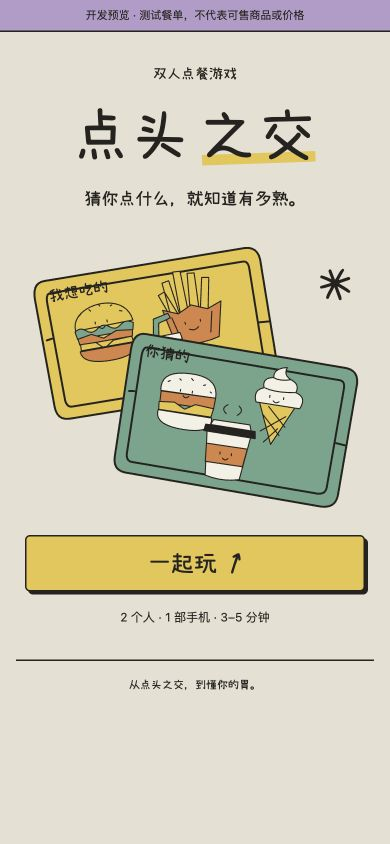
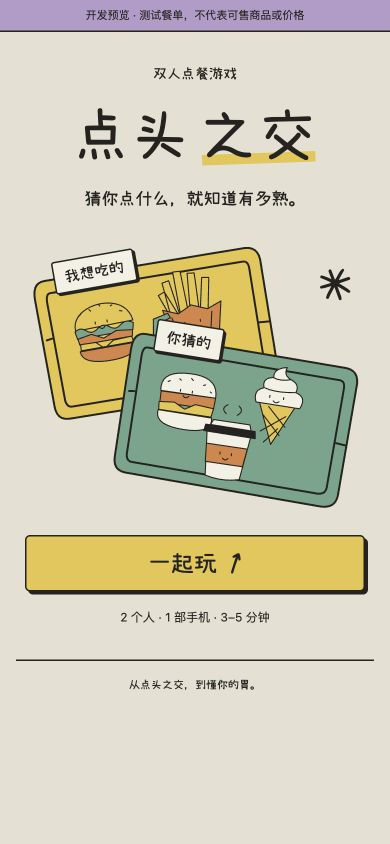
Give cover tray labels clear paper tabs on mobile and desktop

Changed region(s): [[0.1231, 0.2773, 0.3692, 0.3697], [0.3692, 0.3697, 0.5846, 0.4313]]

diff --git a/public/style.css b/public/style.css
@@ -15,7 +15,7 @@
 :root{color-scheme:light}.handoff .envelope{animation:seal-in 250ms ease both}.handoff .recipient{animation:receive-in 150ms ease both}@keyframes seal-in{from{opacity:0;transform:translateY(14px) rotate(-10deg) scale(.96)}to{opacity:1;transform:rotate(-5deg)}}@keyframes receive-in{from{opacity:0;transform:translateY(5px)}to{opacity:1;transform:none}}
 @media(min-width:650px){.welcome{display:grid;grid-template-columns:1fr 1fr;grid-template-areas:"eyebrow eyebrow" "title art" "copy art" "button art" "meta meta";text-align:left;column-gap:28px;padding-top:34px;align-items:center}.welcome .eyebrow{grid-area:eyebrow;justify-content:flex-start}.welcome h1{grid-area:title;font-size:clamp(43px,4.6vw,54px);align-self:end;margin-top:8px}.welcome .cover-stage{grid-area:art;width:100%;height:300px;margin:0}.welcome .cover-card{height:225px;bottom:28px}.welcome .cover-card svg{width:155px;height:155px}.welcome .cover-card span{font-size:21px}.welcome .cover-note{font-size:16px}.welcome .cover-star{font-size:38px}.welcome .welcome-copy{grid-area:copy;font-size:19px;margin:14px 0 22px}.welcome>.button{grid-area:button}.welcome-meta{grid-area:meta;text-align:center;padding-top:15px;margin-top:24px}}
 /* Free-choice food counter and tray. No request is sent while arranging food. */
-.tray-cover .cover-tray{position:absolute;width:74%;left:0;top:18px;transform:rotate(-10deg)}.tray-cover .cover-tray:nth-child(2){left:auto;right:-1%;top:106px;transform:rotate(9deg)}.cover-tray svg{display:block;width:100%}.cover-tray span{position:absolute;left:9%;top:11%;font:17px Xiaolai,sans-serif}.tray-cover .cover-note{top:0}.tray-cover .cover-star{left:auto;right:0;top:46px}.tray-cover .cover-question{left:4%;bottom:1px}.welcome .tray-cover{height:320px;max-width:440px}
+.tray-cover .cover-tray{position:absolute;width:74%;left:0;top:18px;transform:rotate(-10deg)}.tray-cover .cover-tray:nth-child(2){left:auto;right:-1%;top:106px;transform:rotate(9deg)}.cover-tray svg{display:block;width:100%}.cover-tray span{position:absolute;left:12%;top:-5%;font:16px/1.2 Xiaolai,sans-serif;white-space:nowrap;background:var(--white);border:1.5px solid var(--ink);border-radius:3px;padding:6px 10px;box-shadow:2px 2px 0 var(--ink)}.tray-cover .cover-note{top:0}.tray-cover .cover-star{left:auto;right:0;top:46px}.tray-cover .cover-question{left:4%;bottom:1px}.welcome .tray-cover{height:320px;max-width:440px}
 .tray-selection .screen-head{padding:24px 0 8px}.tray-selection .screen-head h1{margin:16px 0 6px}.tray-selection .store-caption{margin:0 0 16px;font-size:12px;gap:12px}.tray-selection .store-caption span:first-child{min-width:0;overflow-wrap:anywhere}.tray-selection .store-caption span:last-child{white-space:nowrap}.tray-builder{display:grid;gap:12px}.food-counter{min-width:0}.food-tabs{display:flex;gap:7px;border-bottom:var(--line);padding:0 7px;justify-content:space-around}.food-tabs button{min-height:44px;min-width:78px;border:var(--line);border-bottom:0;border-radius:14px 14px 0 0;background:transparent;font:21px Xiaolai,sans-serif;padding:7px 14px}.food-tabs button[aria-pressed=true]{background:var(--yellow)}.b-screen .food-tabs button[aria-pressed=true]{background:var(--green)}.food-shelf{display:grid;grid-template-columns:repeat(3,minmax(0,1fr));align-items:start;column-gap:7px;padding:8px 0 0;min-height:260px}.food-tile{border:0;background:none;padding:0 3px 9px;display:flex;flex-direction:column;align-items:center;min-width:0;position:relative;user-select:none;-webkit-user-select:none;touch-action:pan-y}.food-illustration{display:block;position:relative;width:90px;height:82px;touch-action:none;cursor:grab}.food-illustration svg{width:100%;height:100%;pointer-events:none;transition:transform 150ms}.food-tile:hover .food-illustration svg{transform:rotate(-5deg) translateY(-3px)}.food-title{font-size:12px;line-height:1.45;overflow-wrap:anywhere}.food-price{font:12px/1.7 ui-monospace,monospace}.food-count{position:absolute;right:2px;top:4px;min-width:22px;min-height:22px;background:var(--yellow);border:1px solid var(--ink);border-radius:50%;font:12px/20px ui-monospace,monospace}.tray-topline{display:flex;justify-content:space-between;align-items:center;min-height:44px}.tray-topline .hand{font-size:24px}.tray-topline .text-button{font-size:12px}.serving-tray{height:220px;position:relative;border:2px solid var(--ink);border-radius:25px 22px 29px 23px;background:var(--white);box-shadow:0 4px 0 #c6bfae;isolation:isolate;transition:background 150ms}.serving-tray:before{content:'';position:absolute;inset:11px;border:1px solid #8b8474;border-radius:17px 15px 19px 15px;pointer-events:none}.serving-tray:after{content:'';position:absolute;left:-1px;right:-1px;top:46%;height:20px;border-left:6px solid #b8afa0;border-right:6px solid #b8afa0;z-index:-1;border-radius:3px}.serving-tray.drop-ready{background:#f4e5a6}.b-screen .serving-tray.drop-ready{background:#d3e0d4}.tray-empty{position:absolute;inset:0;display:flex;flex-direction:column;align-items:center;justify-content:center;text-align:center;font:29px/1.25 Xiaolai,sans-serif;color:#777164;transform:rotate(-4deg);pointer-events:none}.tray-empty span{font:12px/1.6 sans-serif;margin-top:12px}.tray-pieces{position:absolute;inset:0;pointer-events:none}.tray-piece{border:0;background:none;padding:0;position:absolute;width:108px;height:108px;transform:translate(-50%,-50%) rotate(var(--tilt));cursor:grab;touch-action:none;user-select:none;-webkit-user-select:none;pointer-events:auto;border-radius:28px}.tray-piece svg{width:100%;height:100%;pointer-events:none}.tray-piece:active{cursor:grabbing}.tray-piece:focus-visible{z-index:3}.being-dragged{opacity:.25}.food-drag-ghost{position:fixed;left:0;top:0;width:110px;height:110px;pointer-events:none;z-index:80;filter:drop-shadow(2px 7px 0 #25231f20);will-change:transform}.food-drag-ghost svg{width:100%;height:100%}.tray-tally{display:flex;flex-wrap:wrap;justify-content:space-between;align-items:baseline;gap:5px;margin:15px 2px 0;font:13px ui-monospace,monospace}.tally-label{font:12px sans-serif;margin-left:13px}.tray-tally strong{font:21px ui-monospace,monospace}.over-budget{flex-basis:100%;text-align:right;font:12px/1.4 sans-serif}.tray-hint{font-size:11px;color:#625f55;text-align:center;margin:10px 0 0}.tray-selection .action-dock{margin-top:8px;padding:12px 0 calc(12px + env(safe-area-inset-bottom));display:flex;align-items:stretch;flex-direction:column;gap:5px}.tray-selection .action-dock>.button{width:100%}.tray-selection .action-dock>.text-button{font-size:12px}
 .tray-results{display:grid;gap:32px}.tray-result{border-top:var(--line);padding-top:18px;animation:receive-in 600ms ease both}.tray-result:nth-child(2){animation-delay:80ms}.tray-result>h2{display:flex;align-items:center;gap:10px;font:23px Xiaolai,sans-serif;overflow-wrap:anywhere;margin:0 0 16px}.tray-result .player-dot{flex:none}.tray-comparison{display:grid;grid-template-columns:1fr 1fr;gap:16px}.tray-comparison>div{min-width:0}.tray-comparison h3{font-size:18px;line-height:1.4;margin:0 0 5px;overflow-wrap:anywhere}.result-tray{width:100%;display:block;height:auto}.tray-comparison p{font-size:13px;line-height:1.65;margin:9px 0 0;overflow-wrap:anywhere}.tray-verdict{display:flex;align-items:center;gap:14px;margin-top:15px;flex-wrap:wrap}.tray-verdict .result-verdict{margin:0;font-size:24px}.tray-verdict .match-list{margin:0;display:flex;flex-wrap:wrap;gap:6px}.receipt-row>.price{text-align:right;white-space:nowrap}.receipt-row>.price small{display:block;font:11px/1.8 sans-serif}.tray-reveal .result-heading{padding:30px 0 18px}.tray-reveal .result-heading h1{font-size:clamp(30px,5.5vw,42px)}
 @media(min-width:700px){.tray-builder{grid-template-columns:1.1fr 1fr;gap:25px;align-items:start}.tray-table{padding-top:0}.tray-topline{height:45px}.serving-tray{height:252px}.food-shelf{min-height:320px;row-gap:12px}.food-illustration{width:105px;height:103px}.food-title{font-size:13px}.tray-selection .action-dock{max-width:360px;margin-left:auto}.tray-selection .screen-head{max-width:none}.tray-comparison p{font-size:14px}.tray-result>h2{font-size:27px}.tray-verdict{justify-content:space-between}}

diff --git a/HANDOFF.MD b/HANDOFF.MD
@@ -99,3 +99,8 @@
 - 生产22项、公开23项检查通过；仅静态文件增量发布，无新依赖、上游请求或后端重启。截图仅使用开发餐单及合成照片。
 - 已在原报名 Issue #1238 更新标题、简介与首页/套餐/合影截图，没有重复报名或修改仓库地址。更新后仍为OPEN，原M-China-Official“已成功参赛”评论保持不变，未出现新审核评论。回执：https://github.com/M-China/mcd-developer-innovation-challenge/issues/1238#issuecomment-6381726961 。不将保留原回执写成一次新的官方审核通过。
 - v5a静态增量发布，回滚v5；线上三个文件逐字节核对通过，app/style/photo gzip分别9194/9678/8775字节。公开文件与完整Git历史真实密钥扫描通过；公开截图不含真人图。
+
+## 封面纸签 v5b · 2026-10-24
+- 托盘标题原先直接压在SVG内边框与食物上；改为上沿独立纸签，纸色底及细边框保证文字不被画面穿过。只改现有CSS规则，无新增资源/请求。
+- 浏览器截图检查375×667、390×844、430×932及1280×720；两张纸签可见，375宽无横向溢出，开始按钮底部约589px（含30px开发提示条）。桌面模拟不冒充真实手机测试。
+- v5b仅增量部署style.css，线上内容一致、health ready；不重启后端，回滚v5a。公开首页截图同步，报名原帖沿用同一图片URL，无须再次编辑报名。
